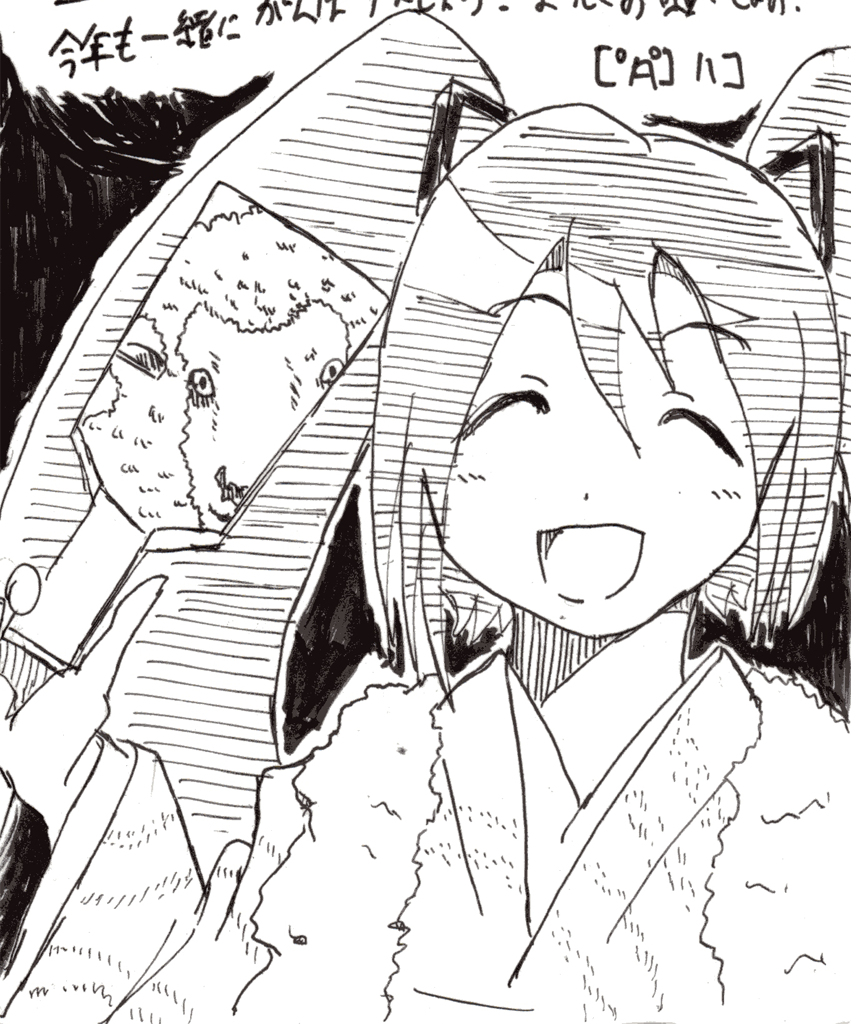
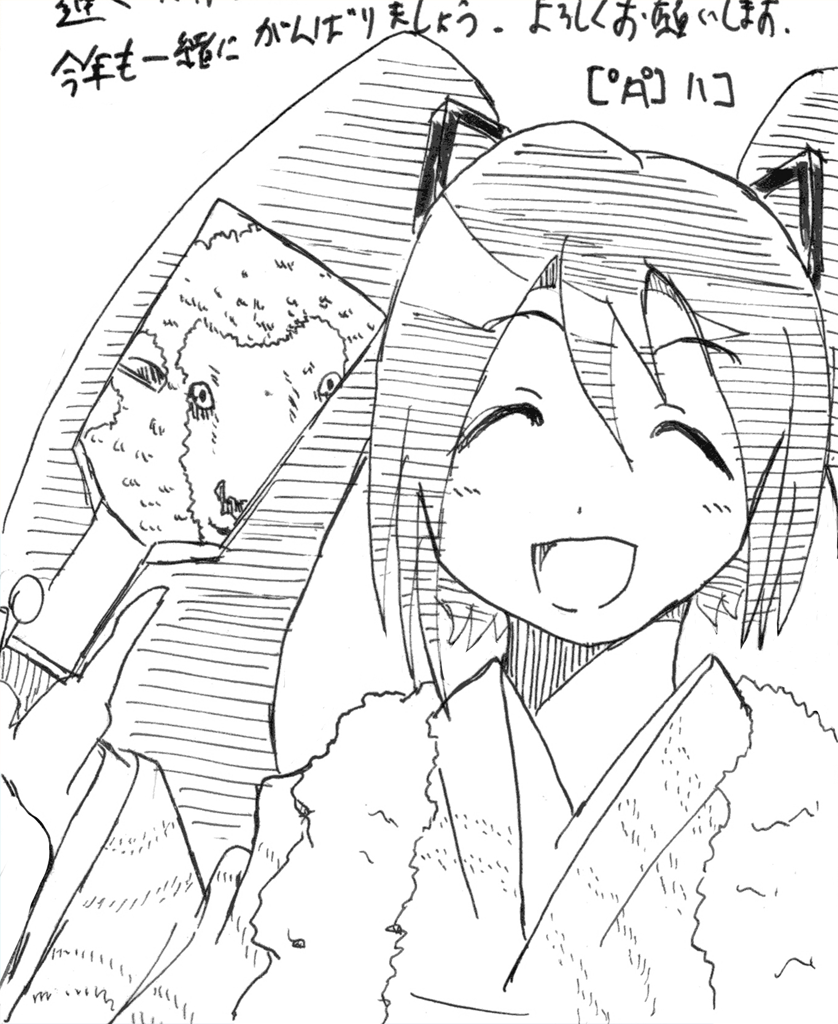
嫁の絵着色

diff --git a/picture/fm13_.html b/picture/fm13_.html
@@ -3,7 +3,7 @@
 <head>
   <meta charset="UTF-8">
   <link rel="stylesheet" href="../style.css" type="text/css">
-  <title>fm13</title>
+  <title>fm13_</title>
   <link rel="shortcut icon" href="../img/icon.png" type="image/png">
 </head>
 
@@ -14,16 +14,16 @@
   </div>
   
   <div class="image">
-    <a href="fm13_.html"><img src="image/fm13.png" alt=""></a>
+    <a href="fm13.html"><img src="image/fm13_.png" alt=""></a>
   </div>
   
   <div class="picturetitle">
-    嫁と羽子板（かいたひと：<a href="http://www.pixiv.net/member.php?id=4658416" target="_blank">ﾊｺ[ﾟдﾟ]SDT</a> さん）
+    嫁と羽子板（かいたひと：<a href="http://www.pixiv.net/member.php?id=4658416" target="_blank">ﾊｺ[ﾟдﾟ]SDT</a>＆南正太郎）
   </div>
   
   <div class="caption">
-    ハコさんから頂いた年賀状<br>
-    ミクさーん！　ミクミクミク！　アーッ!!　ああーっ!!
+    色塗ってみました<br>
+    嫁への愛を止められなかった
   </div>
 
   <div class="back">
